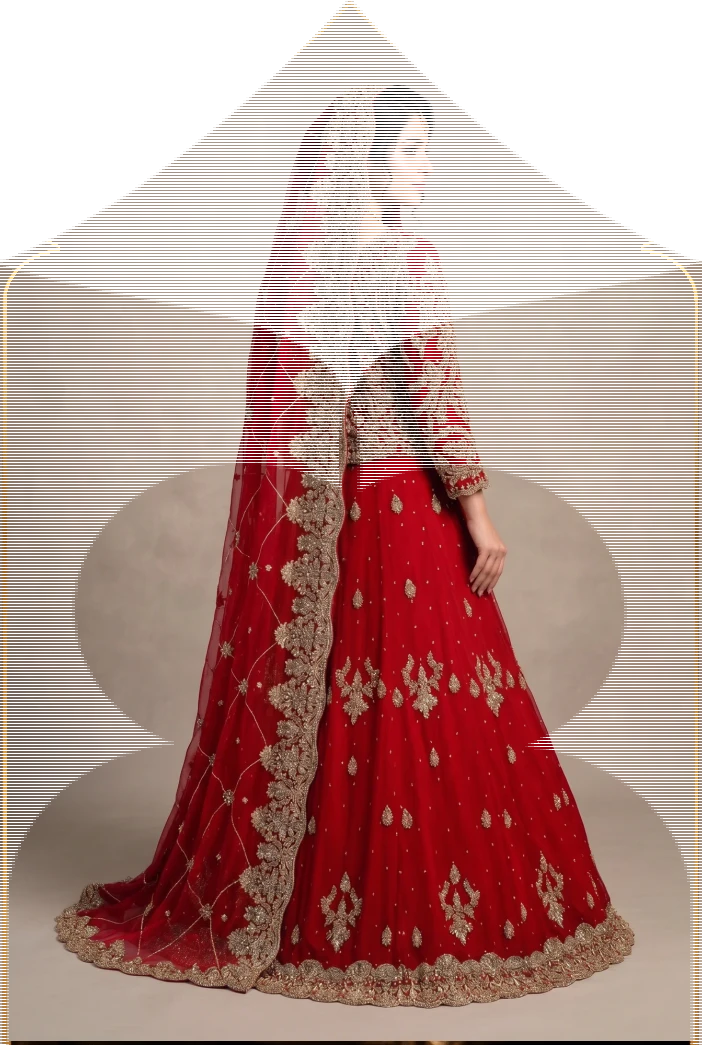
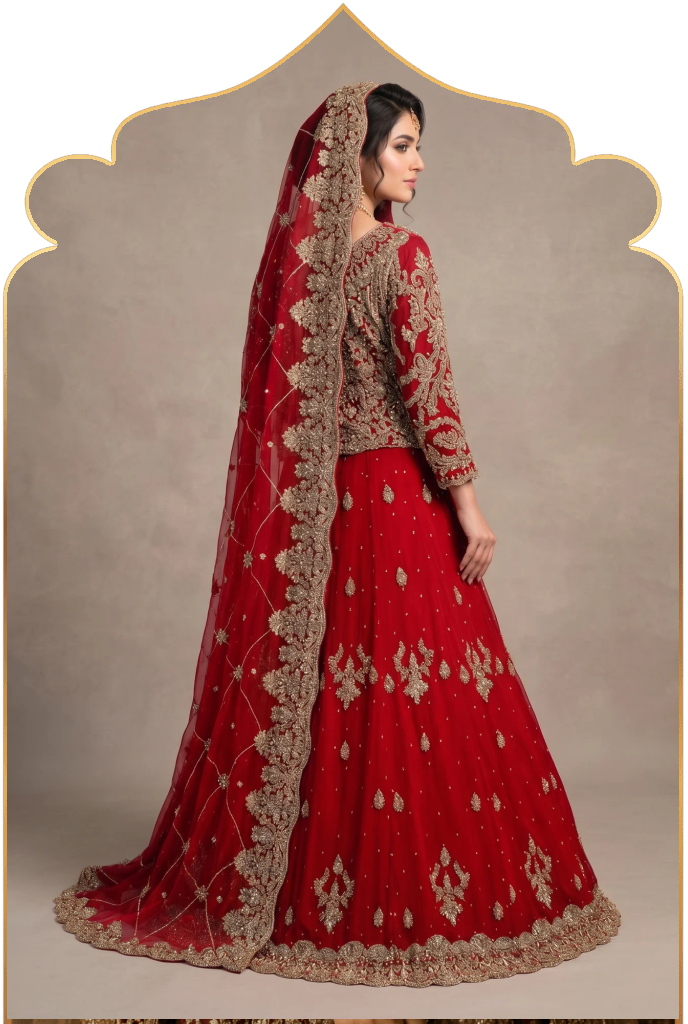
fix: restore authentic scalloped Mughal arch with crisp gold border for all category cards

diff --git a/src/components/ShopByCategory.tsx b/src/components/ShopByCategory.tsx
@@ -4,11 +4,11 @@ import type { CategoryCard } from "@/types/content";
 import { BLUR_CREAM } from "@/lib/blur";
 
 const CATEGORIES: CategoryCard[] = [
-  { label: "New Arrivals", image: "/images/categories/cat-new-arrivals.webp", href: "/products?category=New+Arrivals" },
-  { label: "Bridal Wear", image: "/images/categories/cat-bridal-wear.webp", href: "/bridal-wear" },
-  { label: "Luxury Formals", image: "/images/categories/cat-luxury-formals.webp", href: "/products?category=Luxury+Formals" },
-  { label: "Party Wear", image: "/images/categories/cat-party-wear.webp", href: "/products?category=Party+Wear" },
-  { label: "Unstitched", image: "/images/categories/cat-unstitched.webp", href: "/products?category=Unstitched" },
+  { label: "New Arrivals", image: "/images/categories/category-new-arrivals-arch.webp", href: "/products?category=New+Arrivals" },
+  { label: "Bridal Wear", image: "/images/categories/category-bridal-arch.webp", href: "/bridal-wear" },
+  { label: "Luxury Formals", image: "/images/categories/category-formals-arch.webp", href: "/products?category=Luxury+Formals" },
+  { label: "Party Wear", image: "/images/categories/category-party-arch.webp", href: "/products?category=Party+Wear" },
+  { label: "Unstitched", image: "/images/categories/category-unstitched-arch.webp", href: "/products?category=Unstitched" },
 ];
 
 export default function ShopByCategory() {
